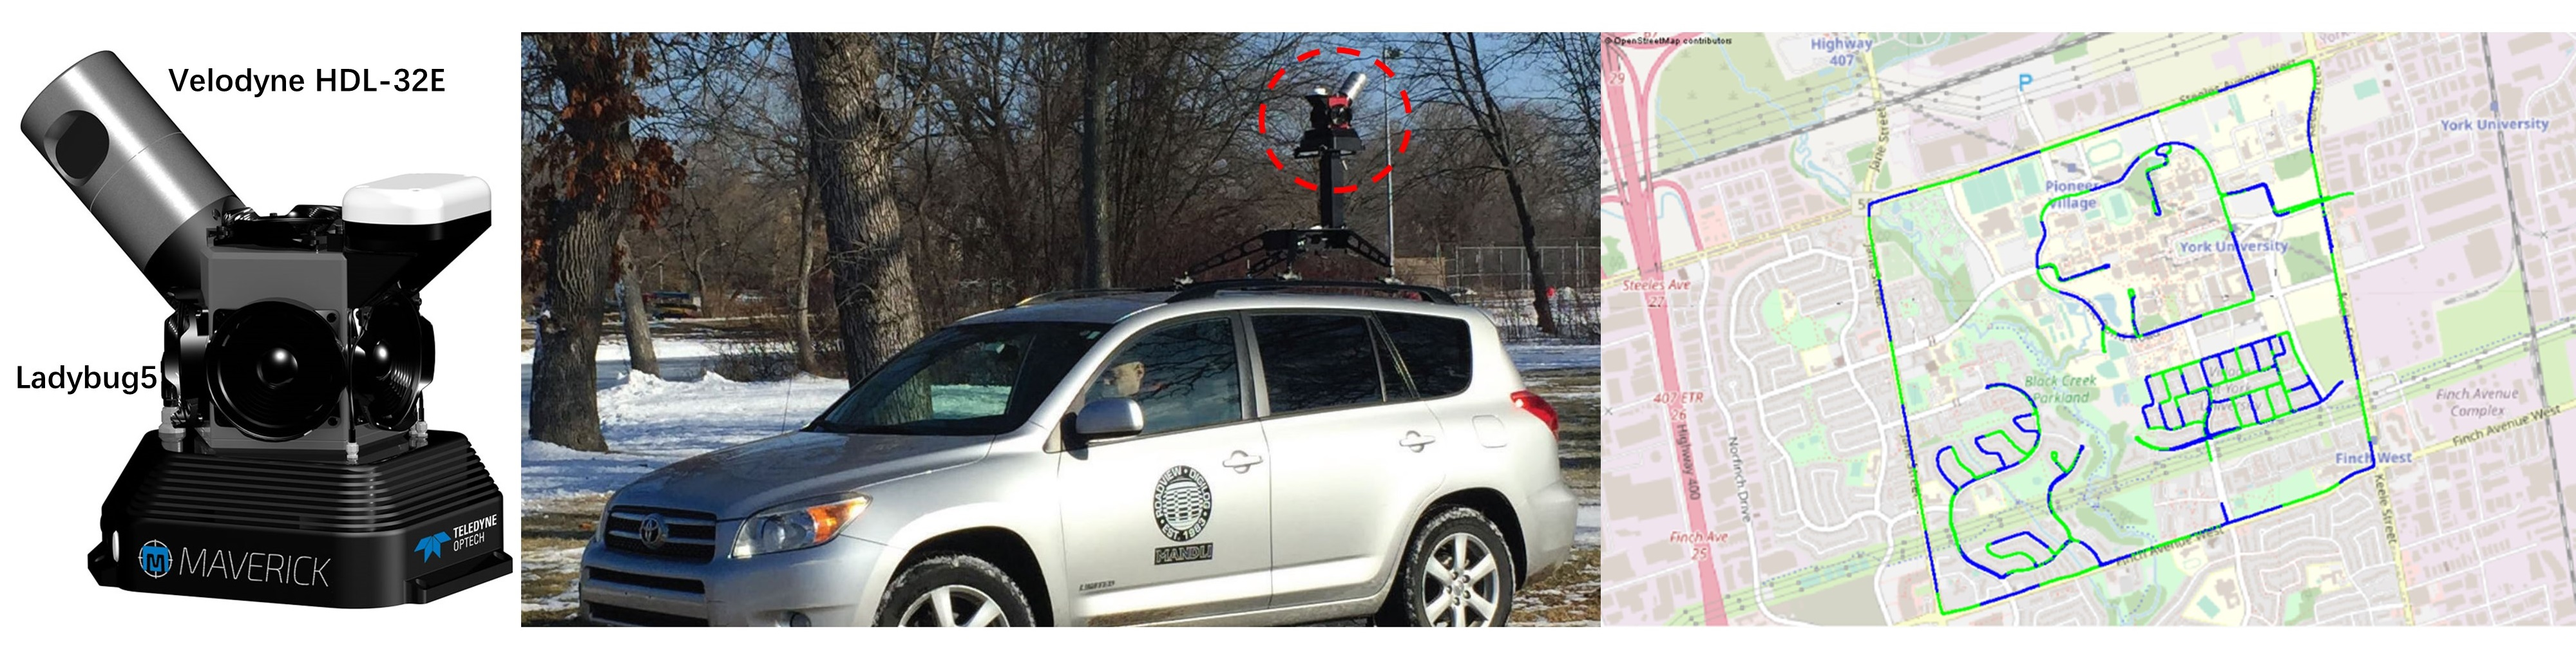
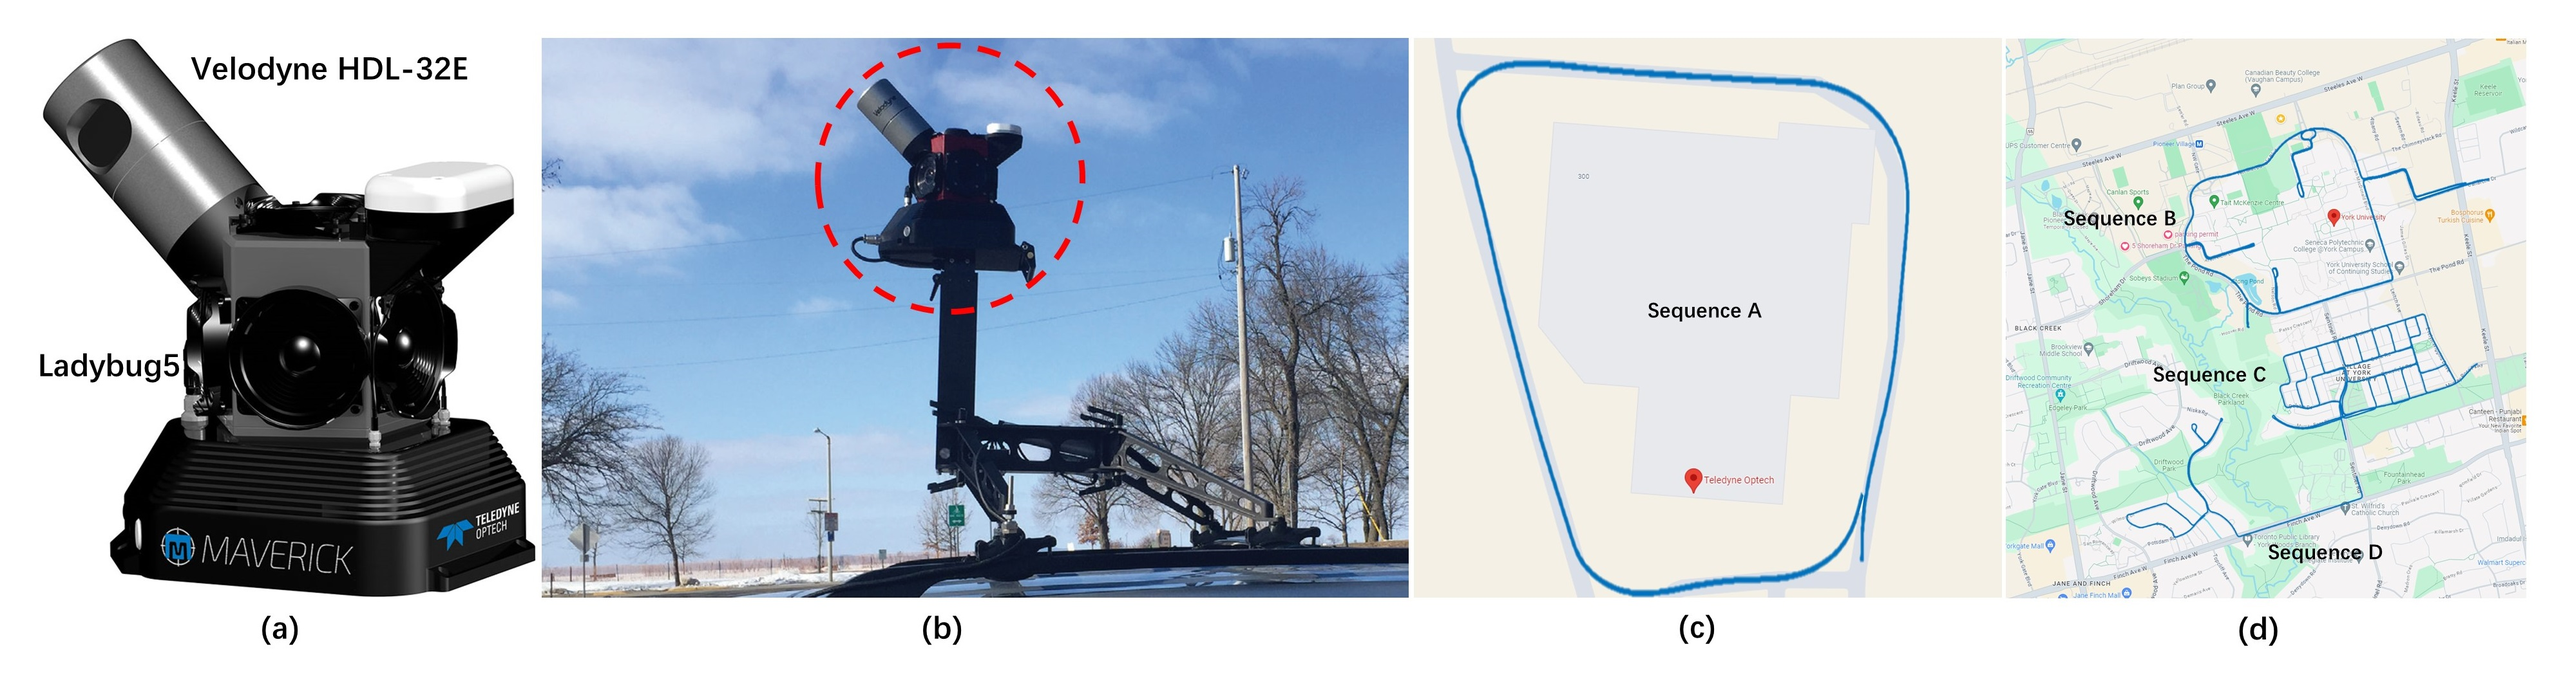
update website

diff --git a/index.md b/index.md
@@ -1,6 +1,6 @@
 ## **YUTO MMS: A Comprehensive Mobile Mapping Dataset for Enhanced SLAM Research**
 
-The York University Teledyne Optech (YUTO) Mobile Mapping System (MMS) Dataset, encompassing four extensive sequences totalling 18.9 kilometres, was thoroughly assembled through two data collection expeditions on August 12,
+The York University Teledyne Optech (YUTO) Mobile Mapping System (MMS) Dataset, encompassing four extensive sequences totalling 20.1 kilometres, was thoroughly assembled through two data collection expeditions on August 12,
 2020, and June 21, 2019. Acquisitions were performed using a uniquely equipped vehicle, fortified with a panoramic camera, a tilted LiDAR, a Global Positioning System (GPS), and an Inertial Measurement Unit (IMU), journeying through
 two strategic locations: the York University Keele Campus in Toronto and the Teledyne Optech headquarters in City of Vaughan, Canada. This is a robust benchmark of prevailing Simultaneous Localization and Mapping (SLAM) systems. 
 This dataset was created by a team of [AUSM Lab](https://gunhosohn.me/).
@@ -102,8 +102,7 @@ Sequence | Number of image files | Number of LiDAR scans | Number of GPS+IMU dat
 A | 700 | 1432 | 11845 | 3.8 GB   
 B | 8382 | 17395 | 143637 | 45.6 GB     
 C | 10778 | 22992 | 189875 | 59.2 GB    
-D | 9863 | 19775 | 163295 | 54.7 GB    
-E | 8157 | 22216 | 183451 | 44.4 GB    
+D | 4500 | 9615 | 79506 | 25.2 GB    
 
 **Dataset Evaluation**
 

diff --git a/README.md b/README.md
@@ -30,7 +30,6 @@ For more details check out our paper ["YUTO MMS: A Comprehensive Multi-Sensor Da
 * Sequence B: .
 * Sequence C: .
 * Sequence D: .
-* Sequence E: .
 
 ### Data Format
 
@@ -56,8 +55,7 @@ YUTO MMS question decomposition datasets:
 | Sequence A | .jpg, 700     |     .bin, 1432      |    .csv, 11845    |
 | Sequence B | .jpg, 8382    |    .bin, 17395     |     .csv, 143637    |
 | Sequence C | .jpg, 10778  |    .bin, 22992     |     .csv,  189875  |
-| Sequence D | .jpg, 9863     |    .bin, 19775       |   .csv, 163295    |
-| Sequence E | .jpg, 8157     |    .bin, 22216       |   .csv, 183451    |
+| Sequence D | .jpg, 4500     |    .bin, 9615       |   .csv, 79506    |
 
 
 ## Reference

diff --git a/download.md b/download.md
@@ -30,4 +30,3 @@
 - Click here to [download Sequence D Part2](https://zenodo.org/records/10570781?token=eyJhbGciOiJIUzUxMiJ9.eyJpZCI6IjUxMjUyN2Y3LWNhZjktNDEzMy1iZmQ5LWUyYmVlNzk3NDU4MiIsImRhdGEiOnt9LCJyYW5kb20iOiI5ZmU4NjQzYjYxNTYxZmNjNDI5ZDk5OTc0ZTQ3MTM1MCJ9.cYlsxCobnIERKbhwlt33TrQp5OnPI28MkEtMB4ii4J5whCeRL7-PLJYvngqvSVpkOd1P-XlY3vQP59b1qmE16A).
 - Click here to [download Sequence D Part3](https://zenodo.org/records/10572097?token=eyJhbGciOiJIUzUxMiJ9.eyJpZCI6ImM1NTRhYTA2LTdkZjgtNDk2Mi1hMDQxLTA5MWNjMjdiNWFlNSIsImRhdGEiOnt9LCJyYW5kb20iOiIyYjEwYzk5ODdkNzU5YTE5NzgxYzA0OTBhOGJiY2I4ZSJ9.iGAV3Sthvhx5t1dvyscCGySqaVHFQ1XCN5-_7GDZyi1vA71hCjF1bdhgnvS1FEgiWjtpFRvMy30M2RwgjpzWEA).
   
-* **Sequence E**: 
